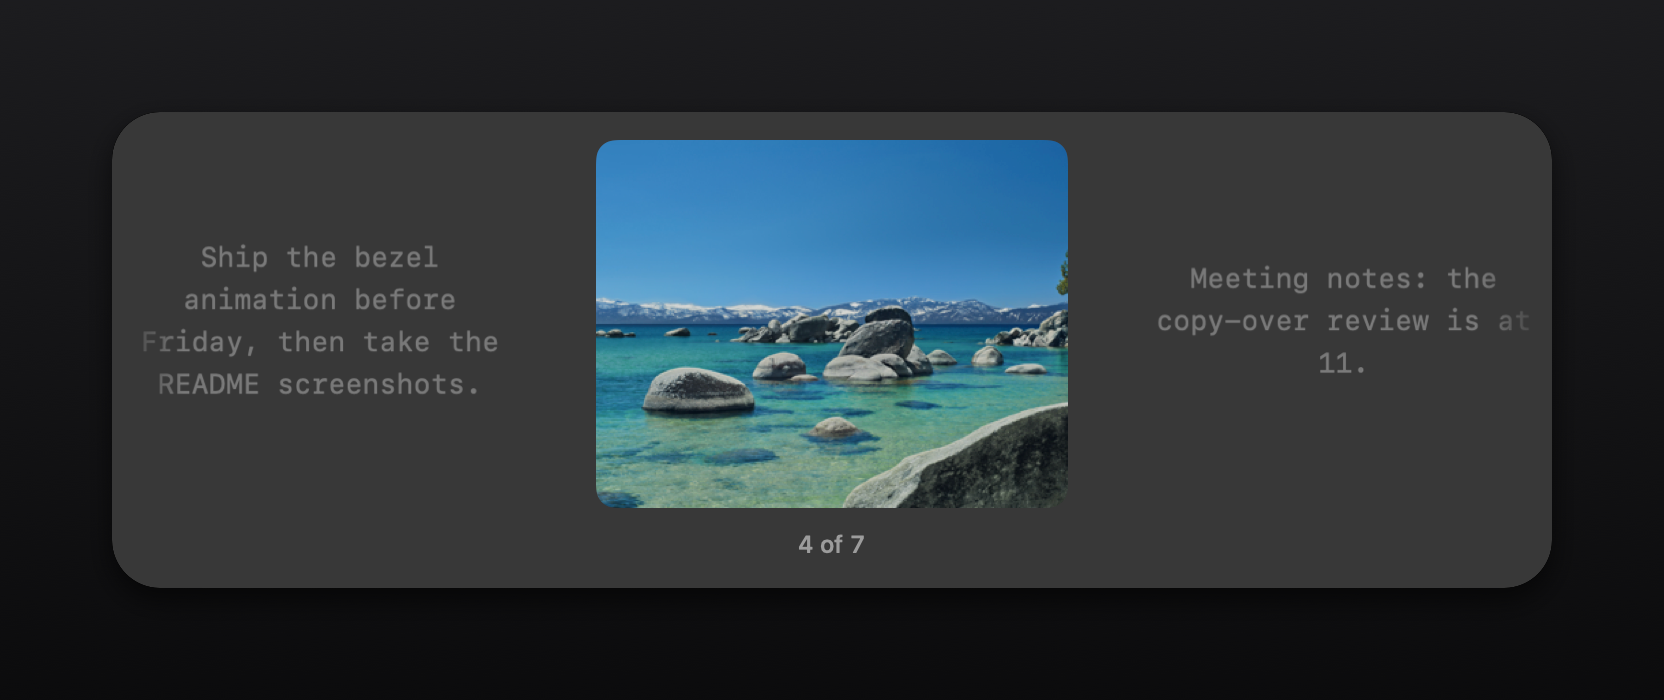
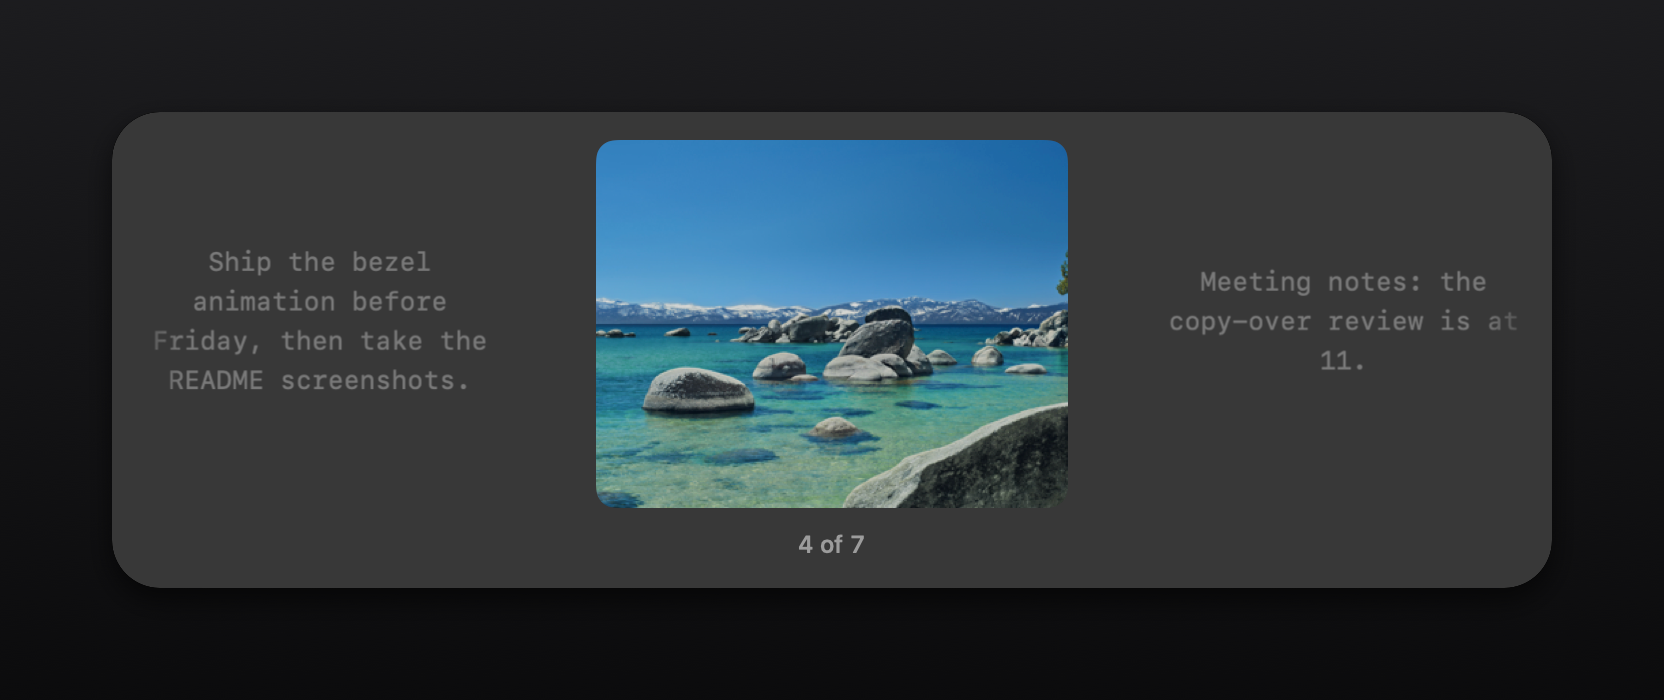
Scale the neighbouring clips down to 0.86 and retake the screenshots
The active clip stays at full size; the clips either side are a little
smaller than before.

diff --git a/Sources/CopyOver/Bezel.swift b/Sources/CopyOver/Bezel.swift
@@ -410,7 +410,7 @@ private struct ClipCard: View {
             }
         }
         .frame(width: size.width, height: size.height)
-        .scaleEffect(selected ? 1 : 0.92)
+        .scaleEffect(selected ? 1 : 0.86)
         .opacity(selected ? 1 : 0.34)
         .accessibilityElement(children: .ignore)
         .accessibilityLabel(item.label)

diff --git a/Sources/CopyOver/DemoShot.swift b/Sources/CopyOver/DemoShot.swift
@@ -51,6 +51,7 @@ enum DemoRender {
     static let bezelRadius = BezelMetrics.cornerRadius
     static let menuRadius: CGFloat = 11
 
+    @discardableResult
     static func write(_ view: NSView, radius: CGFloat, light: Bool, to url: URL) -> Bool {
         let size = view.bounds.size
         guard size.width > 1, size.height > 1,
